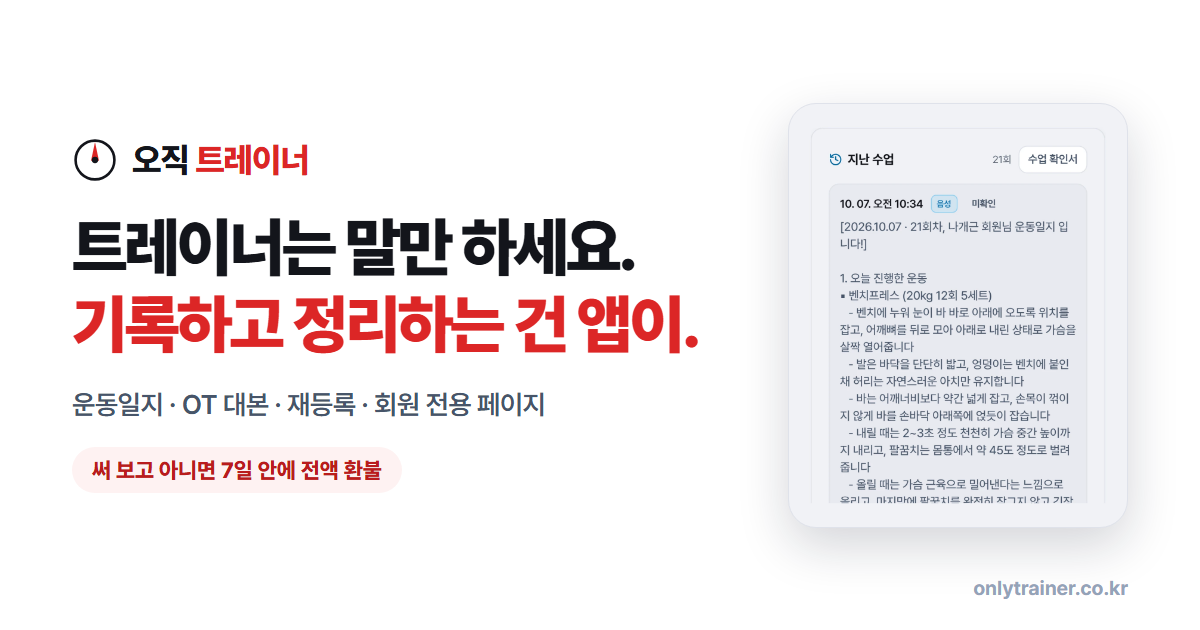
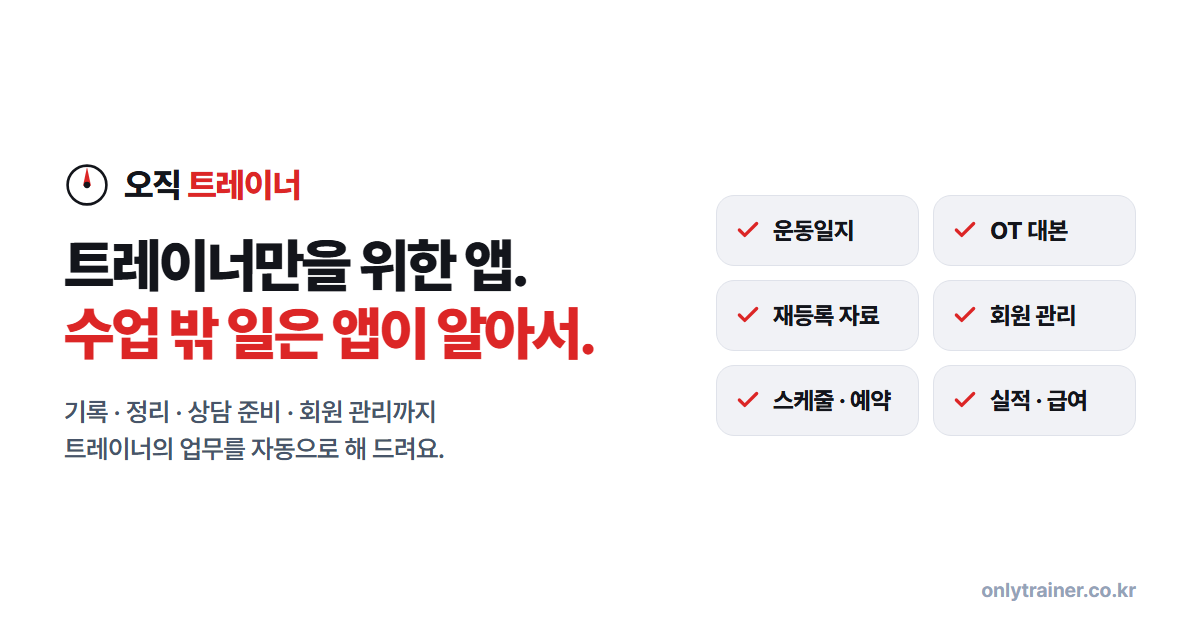
feat(lp): 공유 미리보기를 큰 틀로 — '오직 트레이너 · 트레이너만을 위한 앱' · 수업 밖 업무를 앱이 자동으로 · 대표 이미지 기능 6칸(대표 결정)

diff --git a/app/layout.js b/app/layout.js
@@ -36,17 +36,17 @@ const handwriting = localFont({
 
 // 공유 미리보기(카톡 · 문자 · 검색) — 2026-10-07. 페이지별(/lp · /center · /try · /download)은 각자 layout · page에서 덮어쓴다.
 const SITE = "https://www.onlytrainer.co.kr";
-const DESC = "트레이너는 말만 하세요. 운동일지 · OT 대본 · 재등록 자료 · 회원 전용 페이지까지, 앱이 기록하고 앱이 정리해요.";
+const DESC = "트레이너만을 위한 앱. 운동일지 · OT 대본 · 재등록 자료 · 회원 관리 · 스케줄 · 실적 · 급여까지, 수업 밖 업무를 앱이 자동으로 해 드려요.";
 export const metadata = {
   metadataBase: new URL(SITE),
   applicationName: "오직 트레이너",
-  title: "오직 트레이너 · 트레이너는 말만 하세요",
+  title: "오직 트레이너 · 트레이너만을 위한 앱",
   description: DESC,
   openGraph: {
     type: "website", locale: "ko_KR", siteName: "오직 트레이너", url: "/",
-    title: "오직 트레이너 · 트레이너는 말만 하세요",
+    title: "오직 트레이너 · 트레이너만을 위한 앱",
     description: DESC,
-    images: [{ url: "/og/trainer.png", width: 1200, height: 630, alt: "오직 트레이너: 트레이너는 말만 하세요. 기록하고 정리하는 건 앱이." }],
+    images: [{ url: "/og/trainer.png", width: 1200, height: 630, alt: "오직 트레이너: 트레이너만을 위한 앱. 수업 밖 일은 앱이 알아서." }],
   },
   twitter: { card: "summary_large_image", images: ["/og/trainer.png"] },
   appleWebApp: {

diff --git a/app/lp/layout.js b/app/lp/layout.js
@@ -1,14 +1,14 @@
 // 트레이너용 랜딩(/lp) — 페이지가 클라이언트 컴포넌트라 공유 미리보기(메타데이터)는 여기서(2026-10-07).
-const DESC = "트레이너는 말만 하세요. 운동일지 · OT 대본 · 재등록 자료 · 회원 전용 페이지까지, 앱이 기록하고 앱이 정리해요. 써 보고 아니면 7일 안에 전액 환불.";
+const DESC = "트레이너만을 위한 앱. 운동일지 · OT 대본 · 재등록 자료 · 회원 관리 · 스케줄 · 실적 · 급여까지, 수업 밖 업무를 앱이 자동으로 해 드려요.";
 export const metadata = {
-  title: "오직 트레이너 · 트레이너는 말만 하세요",
+  title: "오직 트레이너 · 트레이너만을 위한 앱",
   description: DESC,
   alternates: { canonical: "/lp" },
   openGraph: {
     type: "website", locale: "ko_KR", siteName: "오직 트레이너", url: "/lp",
-    title: "트레이너는 말만 하세요. 기록하고 정리하는 건 앱이.",
+    title: "오직 트레이너 · 트레이너만을 위한 앱",
     description: DESC,
-    images: [{ url: "/og/trainer.png", width: 1200, height: 630, alt: "오직 트레이너: 트레이너는 말만 하세요. 기록하고 정리하는 건 앱이." }],
+    images: [{ url: "/og/trainer.png", width: 1200, height: 630, alt: "오직 트레이너: 트레이너만을 위한 앱. 수업 밖 일은 앱이 알아서." }],
   },
   twitter: { card: "summary_large_image", images: ["/og/trainer.png"] },
 };
